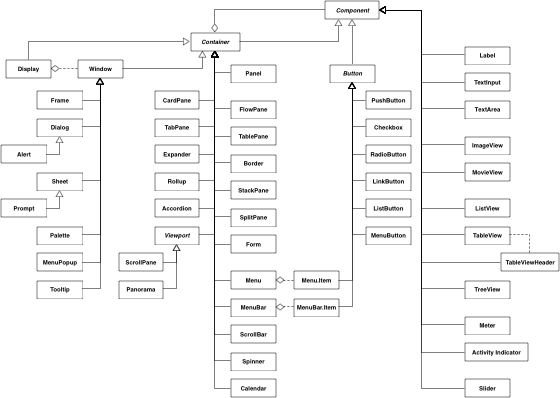
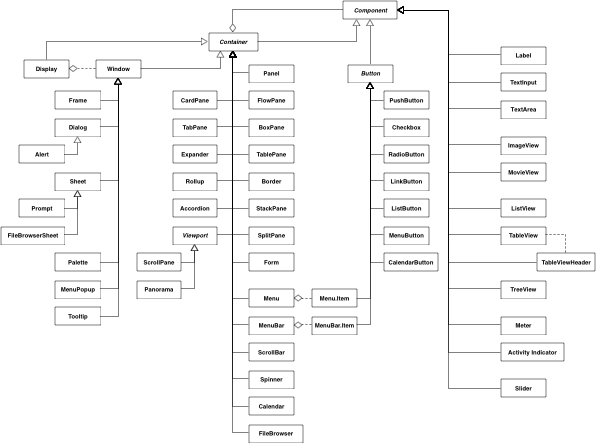
Eliminate FolderBrowser and related classes/interfaces - folder selection can be handled by current FileBrowser design.
git-svn-id: https://svn.apache.org/repos/asf/incubator/pivot/trunk@798188 13f79535-47bb-0310-9956-ffa450edef68

Changed region(s): [[0.0, 0.0, 1.0, 1.0]]

diff --git a/tutorials/www/platform_overview.template.html b/tutorials/www/platform_overview.template.html
@@ -144,7 +144,6 @@ limitations under the License.
 <li><p><b>Prompt</b> - A sheet that is generally used to present brief notifications to the user; the sheet equivalent of <tt>Alert</tt>.</p></li>
 <li><p><b>Palette</b> - A floating tool palette window.</p></li>
 <li><p><b>FileBrowserSheet</b> - A file browser sheet.</p></li>
-<li><p><b>FolderBrowserSheet</b> - A folder browser sheet.</p></li>
 <li><p><b>Tooltip</b> - A small, popup-like window that disappears as soon as the user moves the mouse.</p></li>
 </ul>
 
@@ -206,7 +205,6 @@ limitations under the License.
 <li><p><b>MenuBar</b> - Provides access to a collection of sub-menus.</p></li>
 <li><p><b>Calendar</b> - Allows a user to select a date.</p></li>
 <li><p><b>FileBrowser</b> - Allows a user to select a file.</p></li>
-<li><p><b>FolderBrowser</b> - Allows a user to select a folder.</p></li>
 </ul>
 
 <h3>Components</h3>

diff --git a/wtk/src/org/apache/pivot/wtk/skin/terra/TerraTheme.java b/wtk/src/org/apache/pivot/wtk/skin/terra/TerraTheme.java
@@ -40,8 +40,6 @@ import org.apache.pivot.wtk.Expander;
 import org.apache.pivot.wtk.BoxPane;
 import org.apache.pivot.wtk.FileBrowser;
 import org.apache.pivot.wtk.FileBrowserSheet;
-import org.apache.pivot.wtk.FolderBrowser;
-import org.apache.pivot.wtk.FolderBrowserSheet;
 import org.apache.pivot.wtk.Form;
 import org.apache.pivot.wtk.Frame;
 import org.apache.pivot.wtk.Label;
@@ -158,8 +156,6 @@ public final class TerraTheme extends Theme {
         componentSkinMap.put(Expander.class, TerraExpanderSkin.class);
         componentSkinMap.put(FileBrowser.class, TerraFileBrowserSkin.class);
         componentSkinMap.put(FileBrowserSheet.class, TerraFileBrowserSheetSkin.class);
-        componentSkinMap.put(FolderBrowser.class, TerraFolderBrowserSkin.class);
-        componentSkinMap.put(FolderBrowserSheet.class, TerraFolderBrowserSheetSkin.class);
         componentSkinMap.put(Form.class, TerraFormSkin.class);
         componentSkinMap.put(BoxPane.class, TerraBoxPaneSkin.class);
         componentSkinMap.put(Frame.class, TerraFrameSkin.class);
